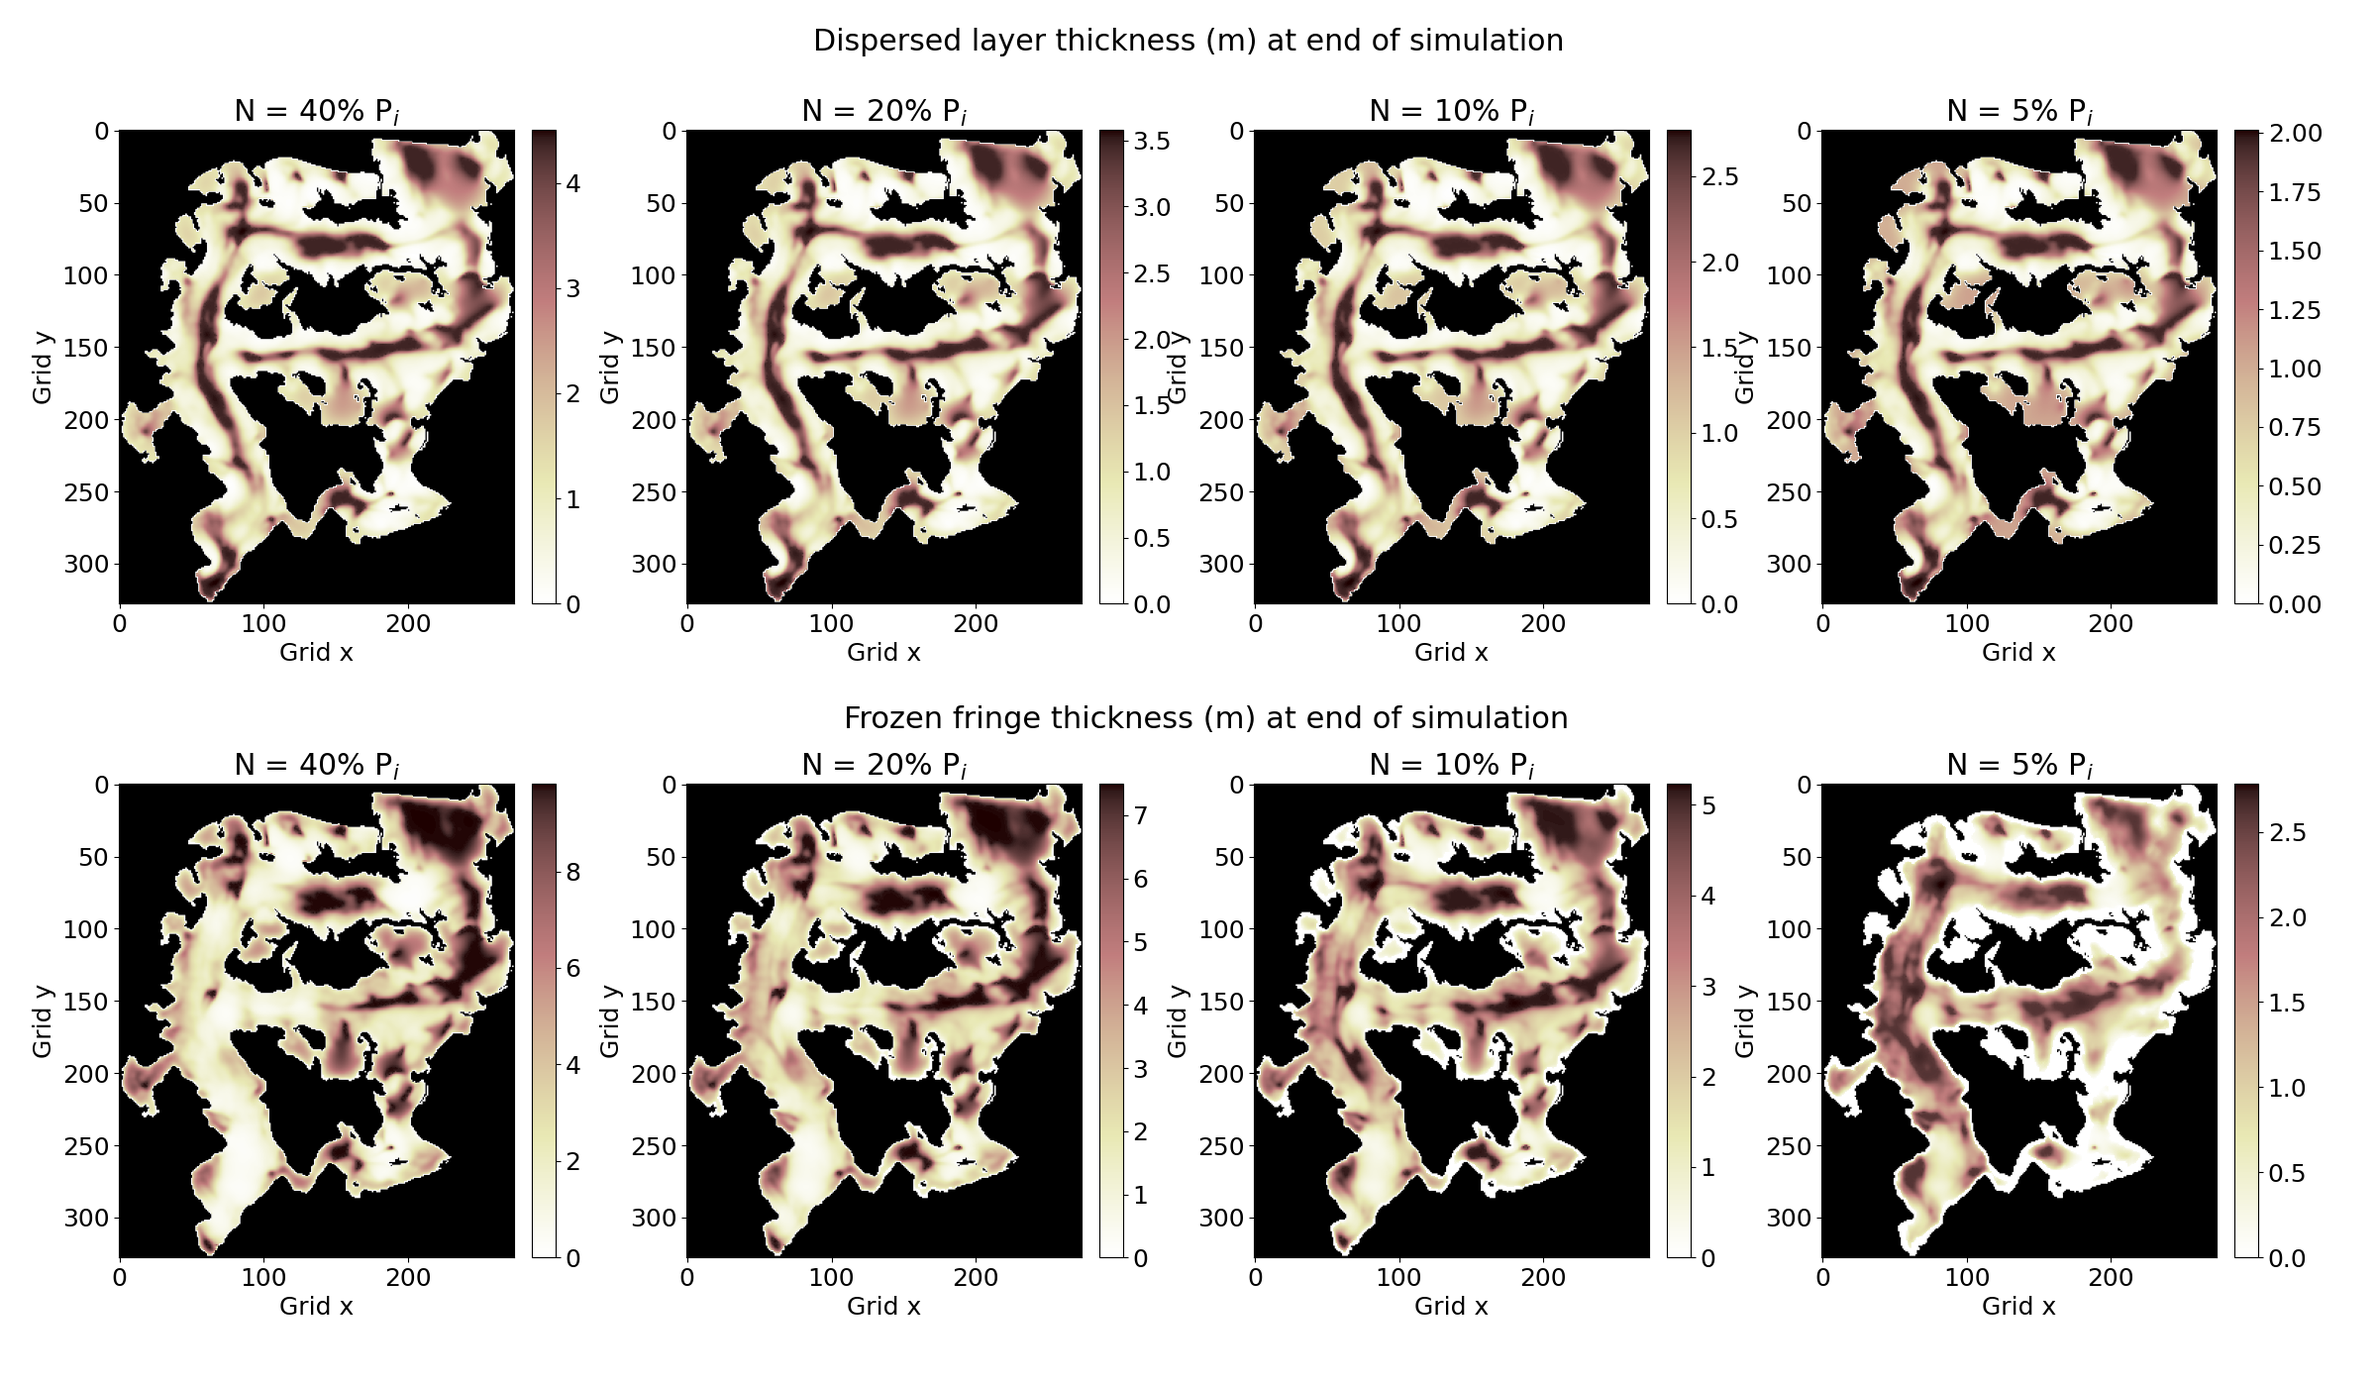
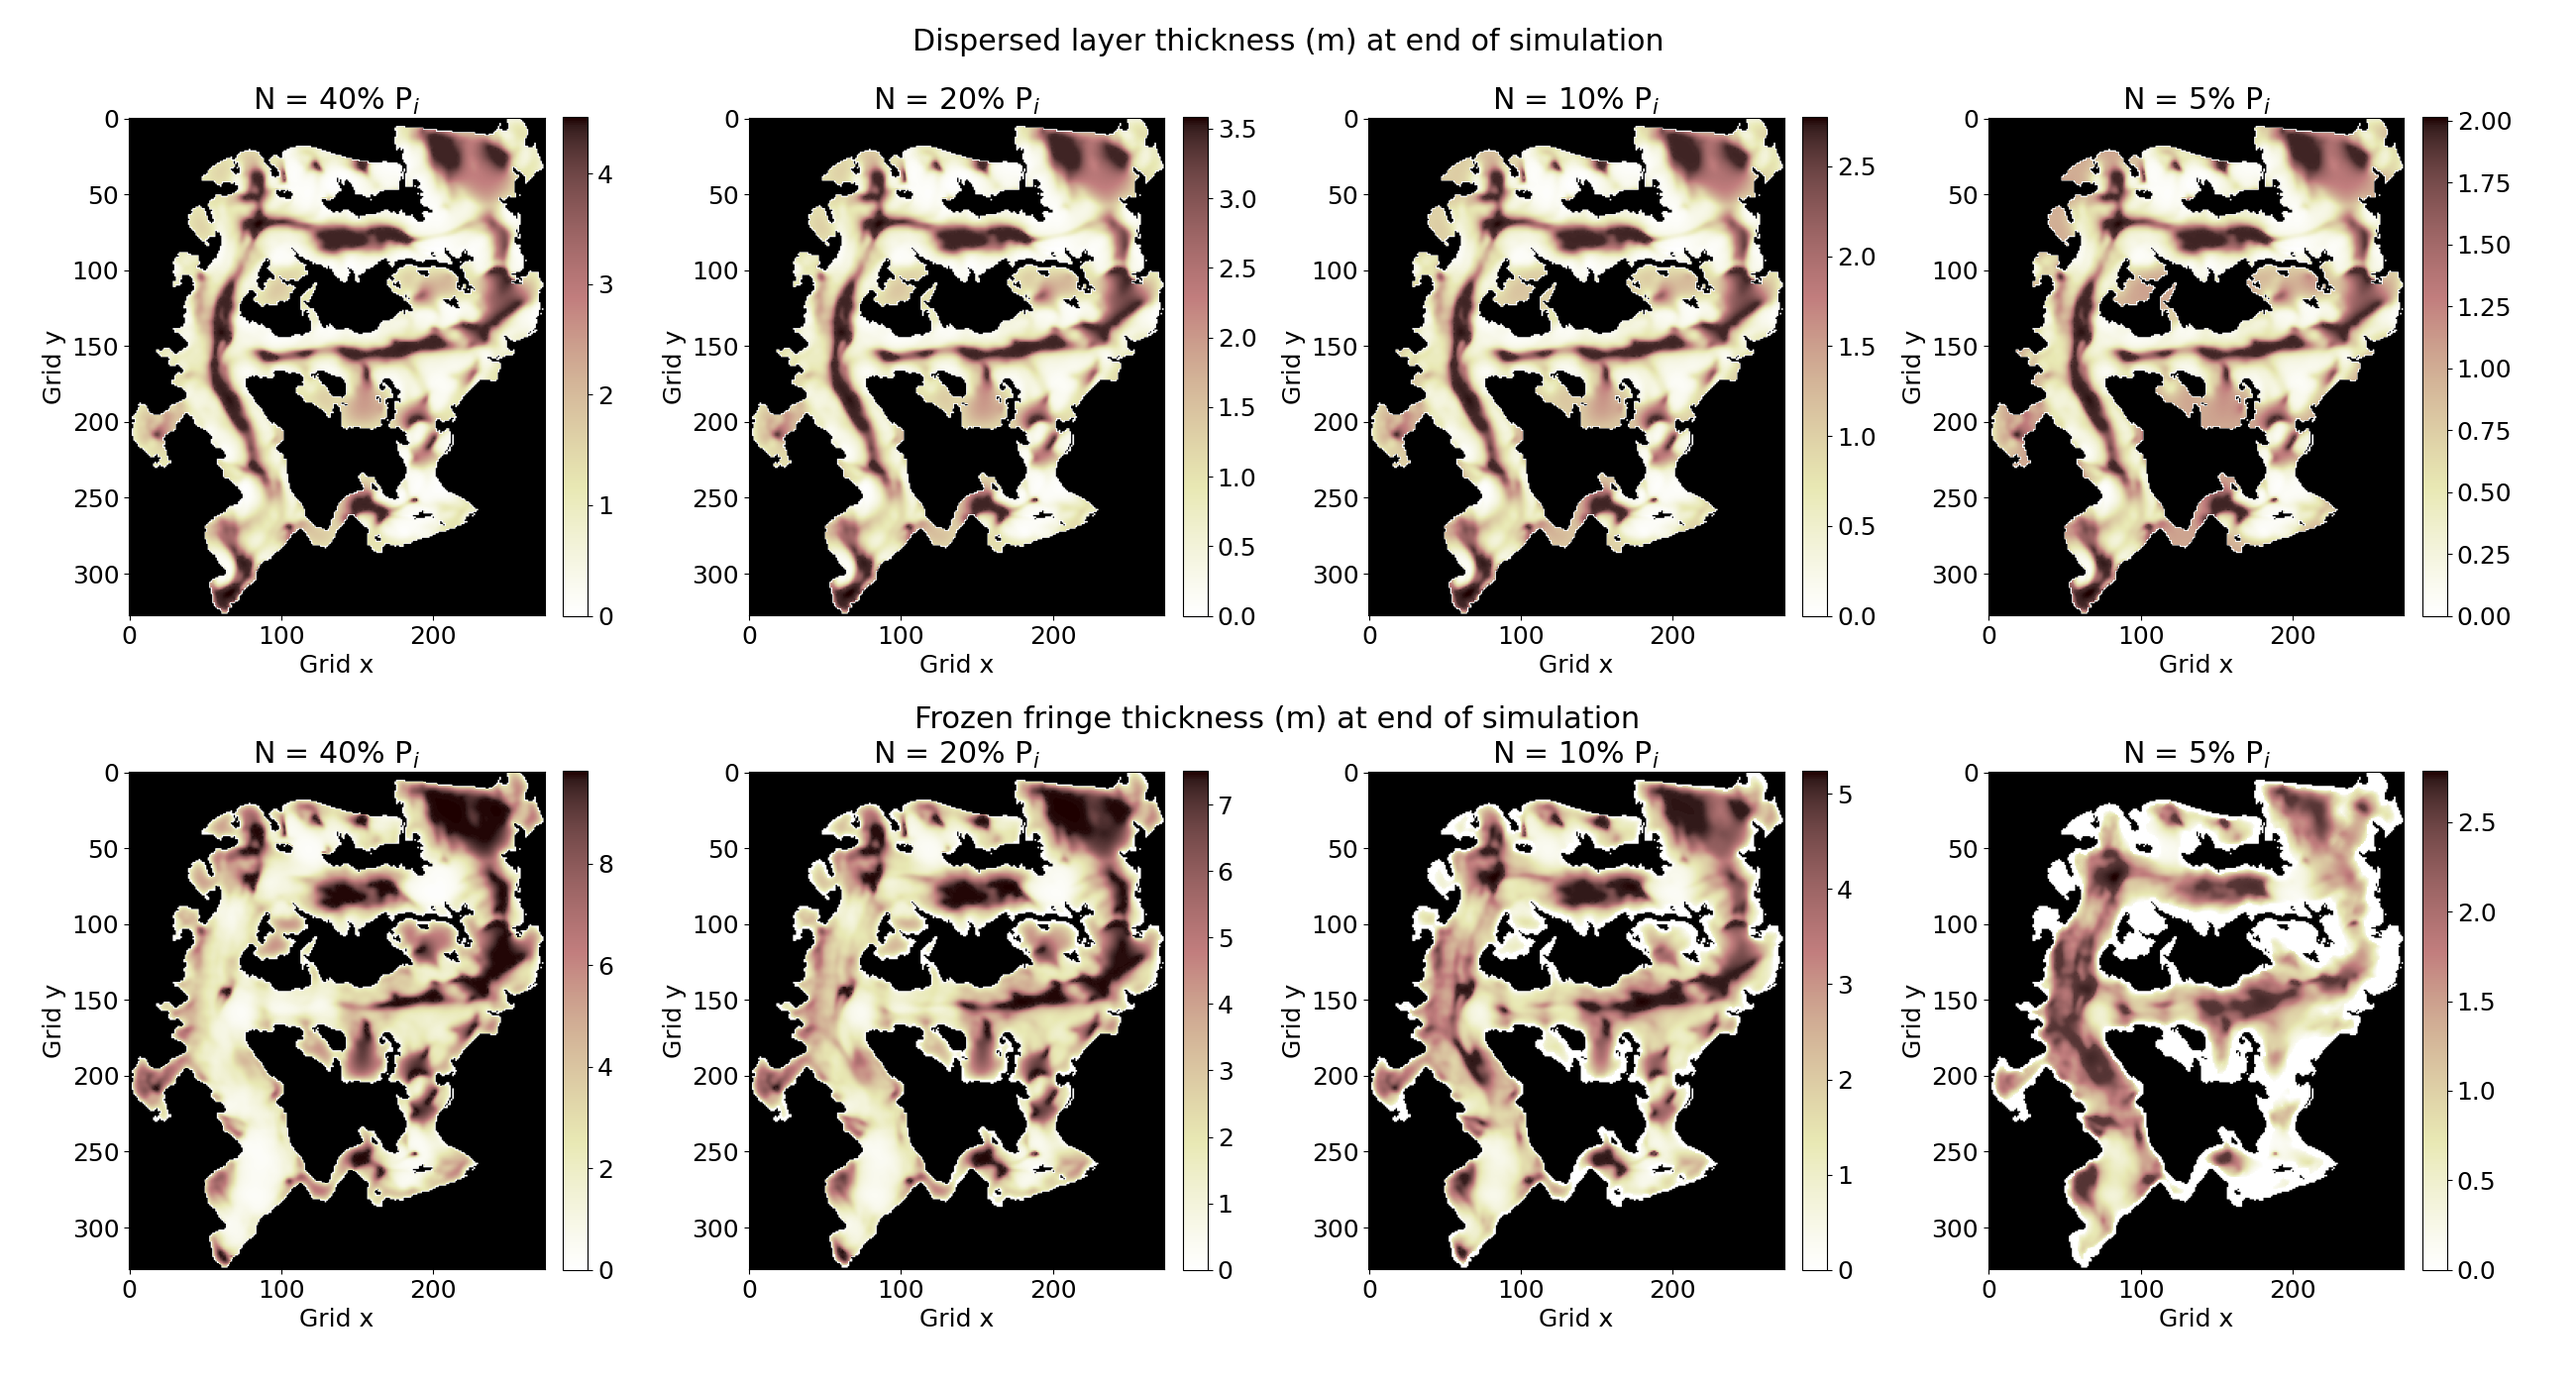
Edit flux figures

diff --git a/experiments/static-effective-pressure/plot-experiments.py b/experiments/static-effective-pressure/plot-experiments.py
@@ -6,16 +6,16 @@ from basis.src.basis import BasalIceStratigrapher
 
 plt.rcParams.update({'font.size': 18})
 
-# BIS = BasalIceStratigrapher()
-# BIS.initialize('./experiments/static-effective-pressure/input_file.toml')
+BIS = BasalIceStratigrapher()
+BIS.initialize('./experiments/static-effective-pressure/input_file.toml')
 
-# mask = np.where(
-#     BIS.grid.at_node['ice_thickness'] > 0.5,
-#     1,
-#     0
-# )
+mask = np.where(
+    BIS.grid.at_node['ice_thickness'] > 0.5,
+    1,
+    0
+)
 
-# fig, axes = plt.subplots(2, 4, figsize = (24, 14))
+# fig, axes = plt.subplots(2, 4, figsize = (26, 14))
 # a = 0
 
 # for N in [60, 80, 90, 95]:
@@ -63,14 +63,14 @@ plt.rcParams.update({'font.size': 18})
 
 # plt.annotate('Frozen fringe thickness (m) at end of simulation', [0.355, 0.475], xycoords = 'figure fraction', fontsize = 22)
 # plt.suptitle('Dispersed layer thickness (m) at end of simulation')
-# plt.subplots_adjust(left=0.05, bottom=0.05, right=0.95, top=0.95, wspace=0.3, hspace=0.1)
+# plt.subplots_adjust(left=0.05, bottom=0.05, right=0.95, top=0.95, wspace=0.35, hspace=0.1)
 # plt.savefig('./figures/advection_results.png')
 
 # -------------------------------------------------
 
 fig, ax = plt.subplots(1, 2, figsize = (24, 8))
 
-for N in [60, 80, 90, 95]:
+for N in [60, 65, 70, 75, 80, 85, 90, 95]:
     fringe = np.loadtxt('./experiments/static-effective-pressure/outputs/fringe_flux_Pw_' + str(N) + '_pct.txt')
     disp = np.loadtxt('./experiments/static-effective-pressure/outputs/dispersed_flux_Pw_' + str(N) + '_pct.txt')
 
@@ -83,7 +83,7 @@ for N in [60, 80, 90, 95]:
     
 ax[0].set_xlabel('Year of simulation')
 ax[0].set_ylabel('Sediment flux (m$^3$ a$^{-1}$)')
-ax[0].legend(loc = 'center right')
+# ax[0].legend(loc = 'center right')
 ax[0].annotate('Flux from the frozen fringe', [0.2, 0.92], xycoords = 'figure fraction')
 
 ax[1].set_xlabel('Year of simulation')
